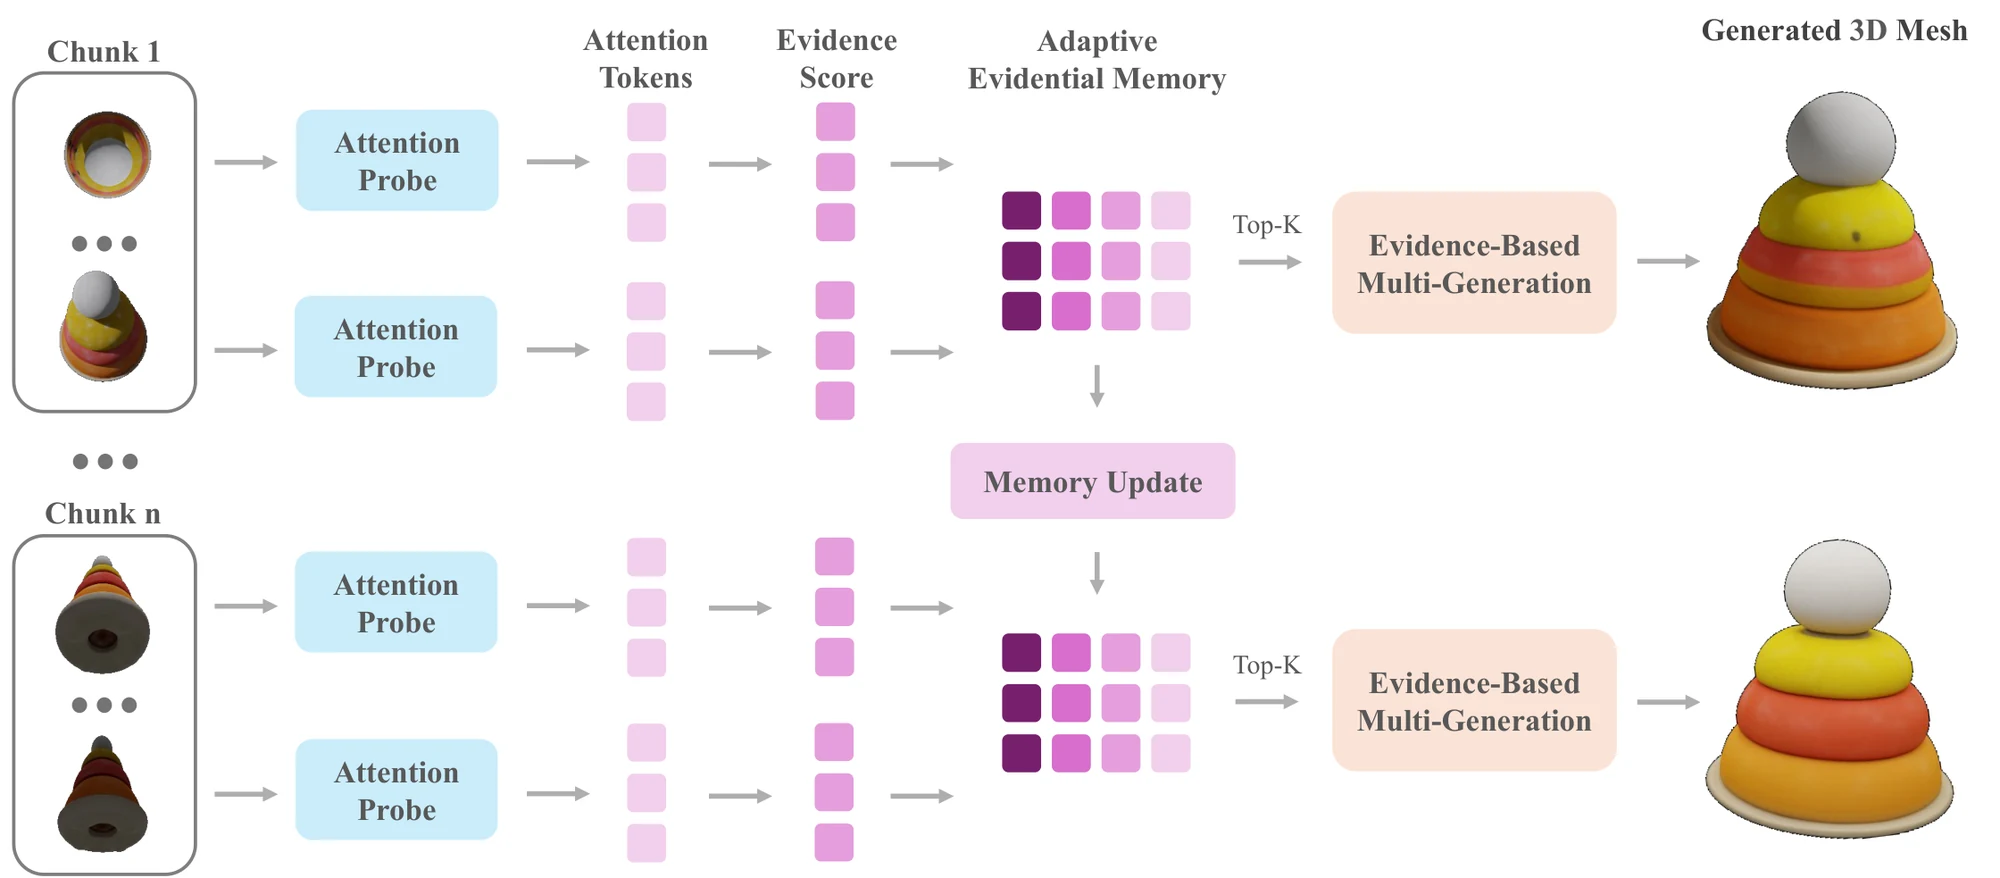
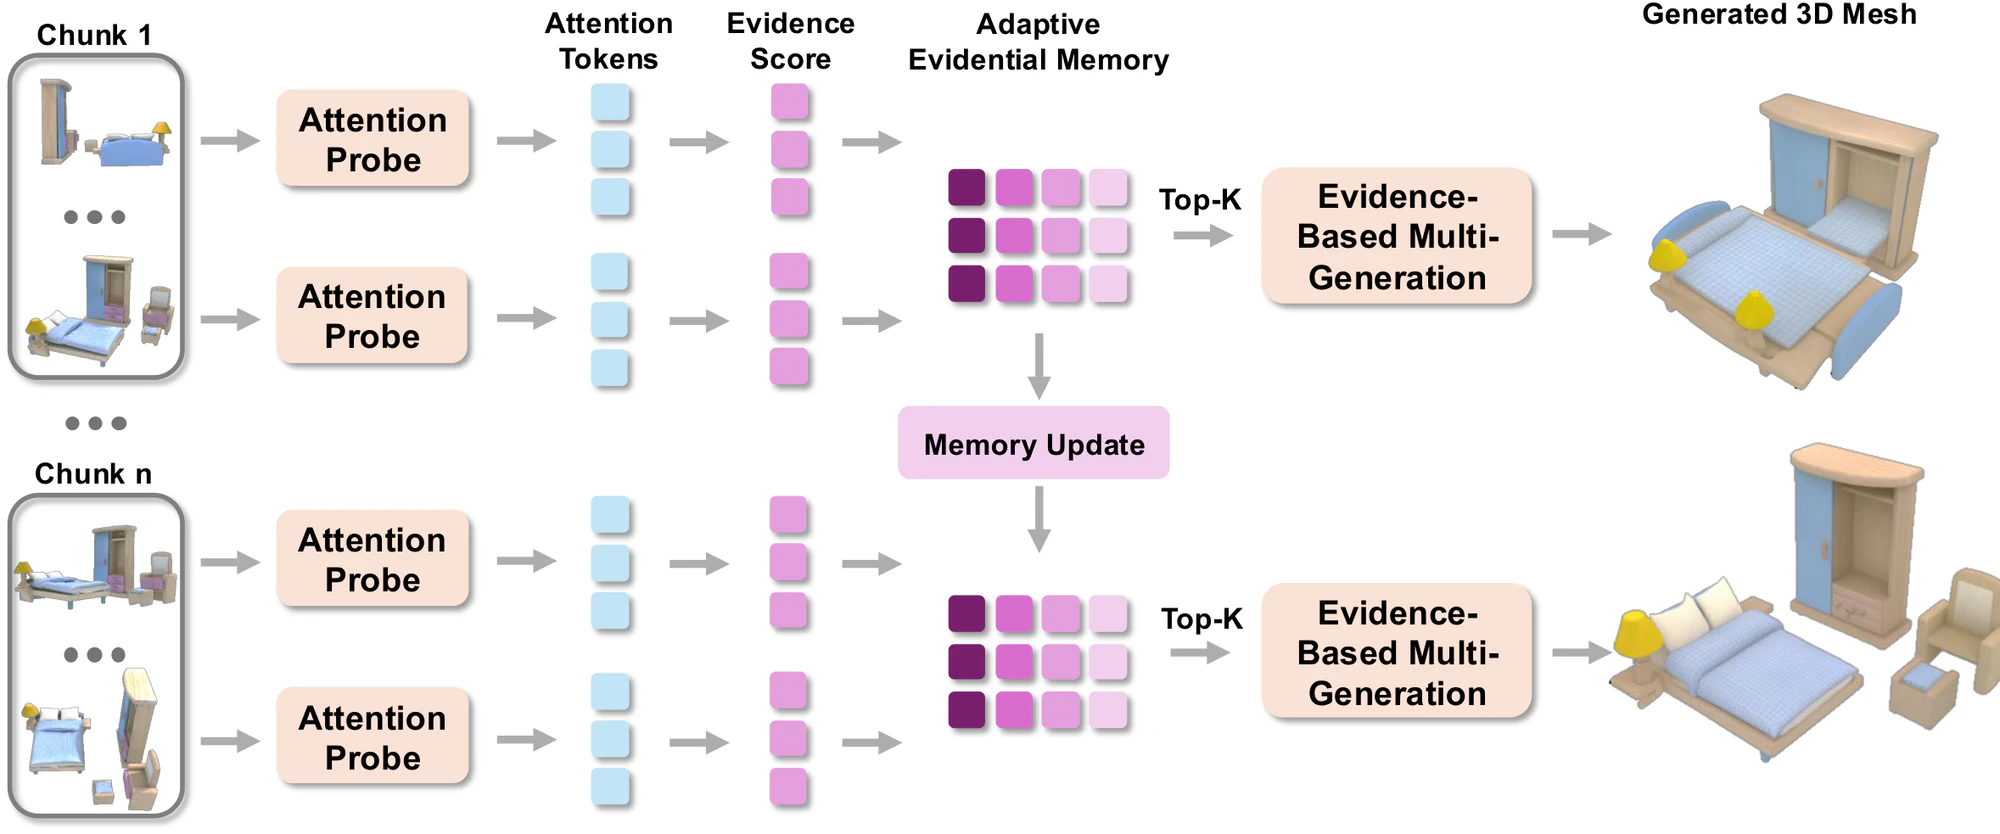
Update Stream3D page content and guidance

diff --git a/index.html b/index.html
@@ -140,7 +140,7 @@
         <figure class="framework-figure reveal">
           <div class="figure-surface">
             <div class="figure-toolbar"><span>Framework overview</span><span>Streaming inference</span></div>
-            <img src="./assets/media/figures/framework.webp" width="2000" height="878" alt="Stream3D framework showing attention probes, evidence scores, adaptive evidential memory, and evidence-based multi-generation" loading="lazy">
+            <img src="./assets/media/figures/framework.webp" width="2000" height="834" alt="Stream3D framework showing attention probes, evidence scores, adaptive evidential memory, and evidence-based multi-generation" loading="lazy">
           </div>
           <figcaption>A lightweight warmup pass extracts token-wise evidence. Top-ranked views update a fixed-capacity memory and condition the frozen 3D generator.</figcaption>
         </figure>
@@ -152,6 +152,7 @@
         <div class="section-heading reveal">
           <h2>Interactive results</h2>
           <p>Inspect selected real and synthetic streams as rotatable 3D assets. The filmstrip shows views observed across the sequence.</p>
+          <p class="graphics-note">If 3D assets do not load in Chrome, open <code>chrome://settings/system</code> and enable <strong>Use graphics acceleration when available</strong>.</p>
         </div>
 
         <div class="case-tabs" id="result-tabs" role="tablist" aria-label="Result examples"></div>
@@ -278,13 +279,13 @@
           </div>
           <span class="flow-arrow" aria-hidden="true"></span>
           <div class="memory-slots">
-            <span class="flow-label">Retained evidence</span>
+            <span class="flow-label">Fixed-capacity evidence</span>
             <div class="slot-row" aria-hidden="true">
-              <span style="--slot: .95"></span>
               <span style="--slot: .82"></span>
-              <span style="--slot: .68"></span>
-              <span style="--slot: .53"></span>
-              <span style="--slot: .37"></span>
+              <span style="--slot: .82"></span>
+              <span style="--slot: .82"></span>
+              <span style="--slot: .82"></span>
+              <span style="--slot: .82"></span>
             </div>
             <small>\(2QD\) scalars, constant in \(T\)</small>
           </div>
@@ -313,41 +314,22 @@
             <article role="listitem">
               <div class="method-step-label"><span>01</span><span>Probe</span></div>
               <h3>Score evidence</h3>
-              <p>Strong, selective cross-attention indicates that view \(v\) supports query token \(q\).</p>
-              <div class="math-display">
-                \[
-                  \mathbf{M}_v[q] \propto
-                  \operatorname{strength}_v[q]\,
-                  \bigl(1-\mathbf{H}_v[q]\bigr)
-                \]
-              </div>
-              <p class="formula-caption">Attention strength times selectivity.</p>
+              <p>Strong and selective cross-attention signals that an incoming view supports a particular 3D token.</p>
+              <p class="formula-caption">Combine attention strength with selectivity.</p>
             </article>
 
             <article role="listitem">
               <div class="method-step-label"><span>02</span><span>Retain</span></div>
               <h3>Keep the top evidence</h3>
-              <p>Each token keeps only its top-\(D\) scores and the corresponding source-frame indices.</p>
-              <div class="math-display">
-                \[
-                  \mathbf{M},\mathbf{F}\in\mathbb{R}^{Q\times D},
-                  \qquad |\text{state}|=2QD
-                \]
-              </div>
-              <p class="formula-caption">Fixed capacity, independent of stream length.</p>
+              <p>For every token, retain only the strongest evidence scores and the source frames that provided them.</p>
+              <p class="formula-caption">Memory capacity stays fixed across the stream.</p>
             </article>
 
             <article role="listitem">
               <div class="method-step-label"><span>03</span><span>Select</span></div>
               <h3>Vote for views</h3>
-              <p>Token ownership counts rank historical frames; the top-\(K\) become the next conditioning bundle.</p>
-              <div class="math-display">
-                \[
-                  n_f=\bigl|\{(q,j):\mathbf{F}[q,j]=f\}\bigr|,
-                  \quad \mathcal{V}^{\star}=\operatorname{TopK}_{f}\,n_f
-                \]
-              </div>
-              <p class="formula-caption">The frozen generator consumes only the selected views.</p>
+              <p>Count how often each historical frame is retained, then select the most-supported frames for generation.</p>
+              <p class="formula-caption">Only the selected views condition the frozen generator.</p>
             </article>
           </div>
 
@@ -367,13 +349,12 @@
             <span>BibTeX</span>
             <button type="button" class="copy-button" data-copy-citation>Copy</button>
           </div>
-          <pre><code id="bibtex">@misc{zhou2026stream3d,
-  title  = {{Stream3D}: Sequential Multi-View 3D Generation via Evidential Memory},
-  author = {Kaichen Zhou and Zeyang Bai and Xinhai Chang and
-            Mengyu Wang and Paul Pu Liang and Fangneng Zhan},
-  year   = {2026},
-  note   = {Preprint},
-  url    = {https://stream-3d.github.io/stream3d.github.io/}
+          <pre><code id="bibtex">@article{zhou2026stream3d,
+  title   = {Stream3D: Sequential Multi-View 3D Generation via Evidential Memory},
+  author  = {Zhou, Kaichen and Bai, Zeyang and Chang, Xinhai and
+             Wang, Mengyu and Liang, Paul and Zhan, Fangneng},
+  journal = {arXiv preprint arXiv:2605.21472},
+  year    = {2026}
 }</code></pre>
           <p class="copy-status" aria-live="polite" data-copy-status></p>
         </div>

diff --git a/assets/css/site.css b/assets/css/site.css
@@ -2579,6 +2579,25 @@ h3 {
   line-height: 1.6;
 }
 
+.section-heading .graphics-note {
+  max-width: 760px;
+  margin-top: 9px;
+  color: var(--quiet);
+  font-size: 11px;
+  line-height: 1.55;
+}
+
+.graphics-note code {
+  color: var(--muted);
+  font-family: var(--font-mono);
+  font-size: 0.94em;
+}
+
+.graphics-note strong {
+  color: var(--muted);
+  font-weight: 560;
+}
+
 .abstract-grid {
   gap: 112px;
 }